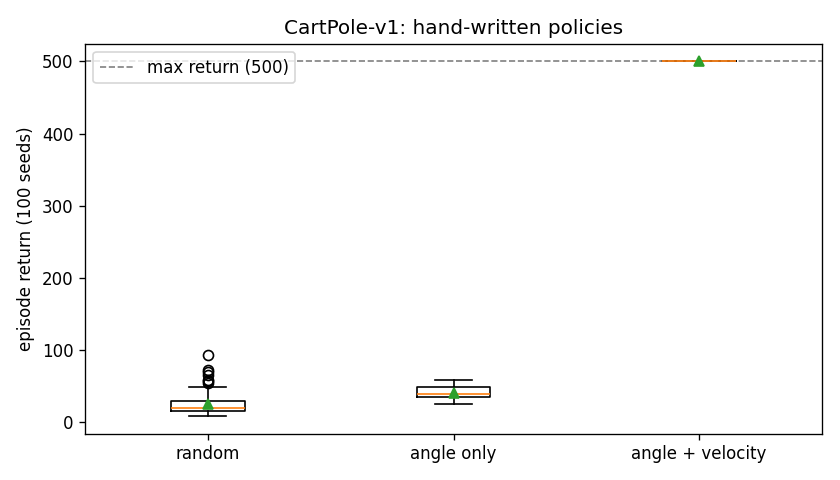
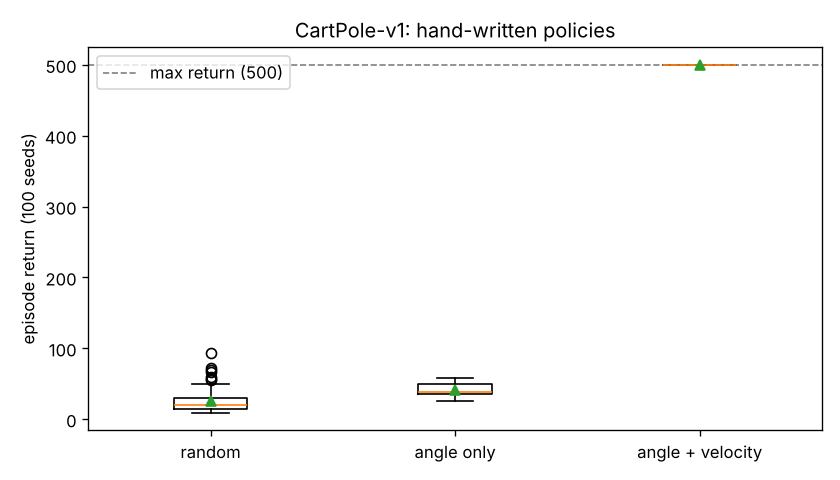
Make boxplot labels work on any matplotlib version; log M0 experiment
The starter code used tick_labels, which needs matplotlib 3.9 while
requirements allowed 3.8. Use set_xticklabels instead.

Claude-Session: https://claude.ai/code/session_01KBkWSwUf4ofyoXtKYkTQoV

Changed region(s): [[0.0, 0.0312, 0.9905, 0.9688], [0.4952, 0.7812, 0.5881, 0.8438]]

diff --git a/modules/m00-setup/run_experiment.py b/modules/m00-setup/run_experiment.py
@@ -31,7 +31,8 @@ def main():
         print(f"{name:<18}{r.mean():8.1f}{r.std():8.1f}{r.min():6.0f}{r.max():6.0f}{(r == 500).mean() * 100:9.0f}%")
 
     fig, ax = plt.subplots(figsize=(7, 4))
-    ax.boxplot(list(results.values()), labels=list(results.keys()), showmeans=True)
+    ax.boxplot(list(results.values()), showmeans=True)
+    ax.set_xticklabels(list(results.keys()))  # works on every matplotlib version
     ax.axhline(500, color="grey", linestyle="--", linewidth=1, label="max return (500)")
     ax.set_ylabel(f"episode return ({N_EPISODES} seeds)")
     ax.set_title("CartPole-v1: hand-written policies")

diff --git a/PROGRESS.md b/PROGRESS.md
@@ -2,7 +2,7 @@
 
 | Module | Started | Quiz | Experiment | Write-up | Total | Grade | Notes |
 |---|---|---|---|---|---|---|---|
-| M0 Setup and diagnostic | 2026-11-22 | 60% (diagnostic) | pending | pending | – | – | Diagnostic 12.5/21. Review set 6/8 (2026-11-24). CartPole experiment still to push |
+| M0 Setup and diagnostic | 2026-11-22 | 60% (diagnostic) | 40/40 (code) | pending | – | – | Diagnostic 12.5/21. Review set 6/8 (2026-11-24). CartPole code pushed 2026-11-24: tests pass, 100/100 episodes at 500. WRITEUP.md still blank, so module not closed |
 
 ## Weak spots to review
 
